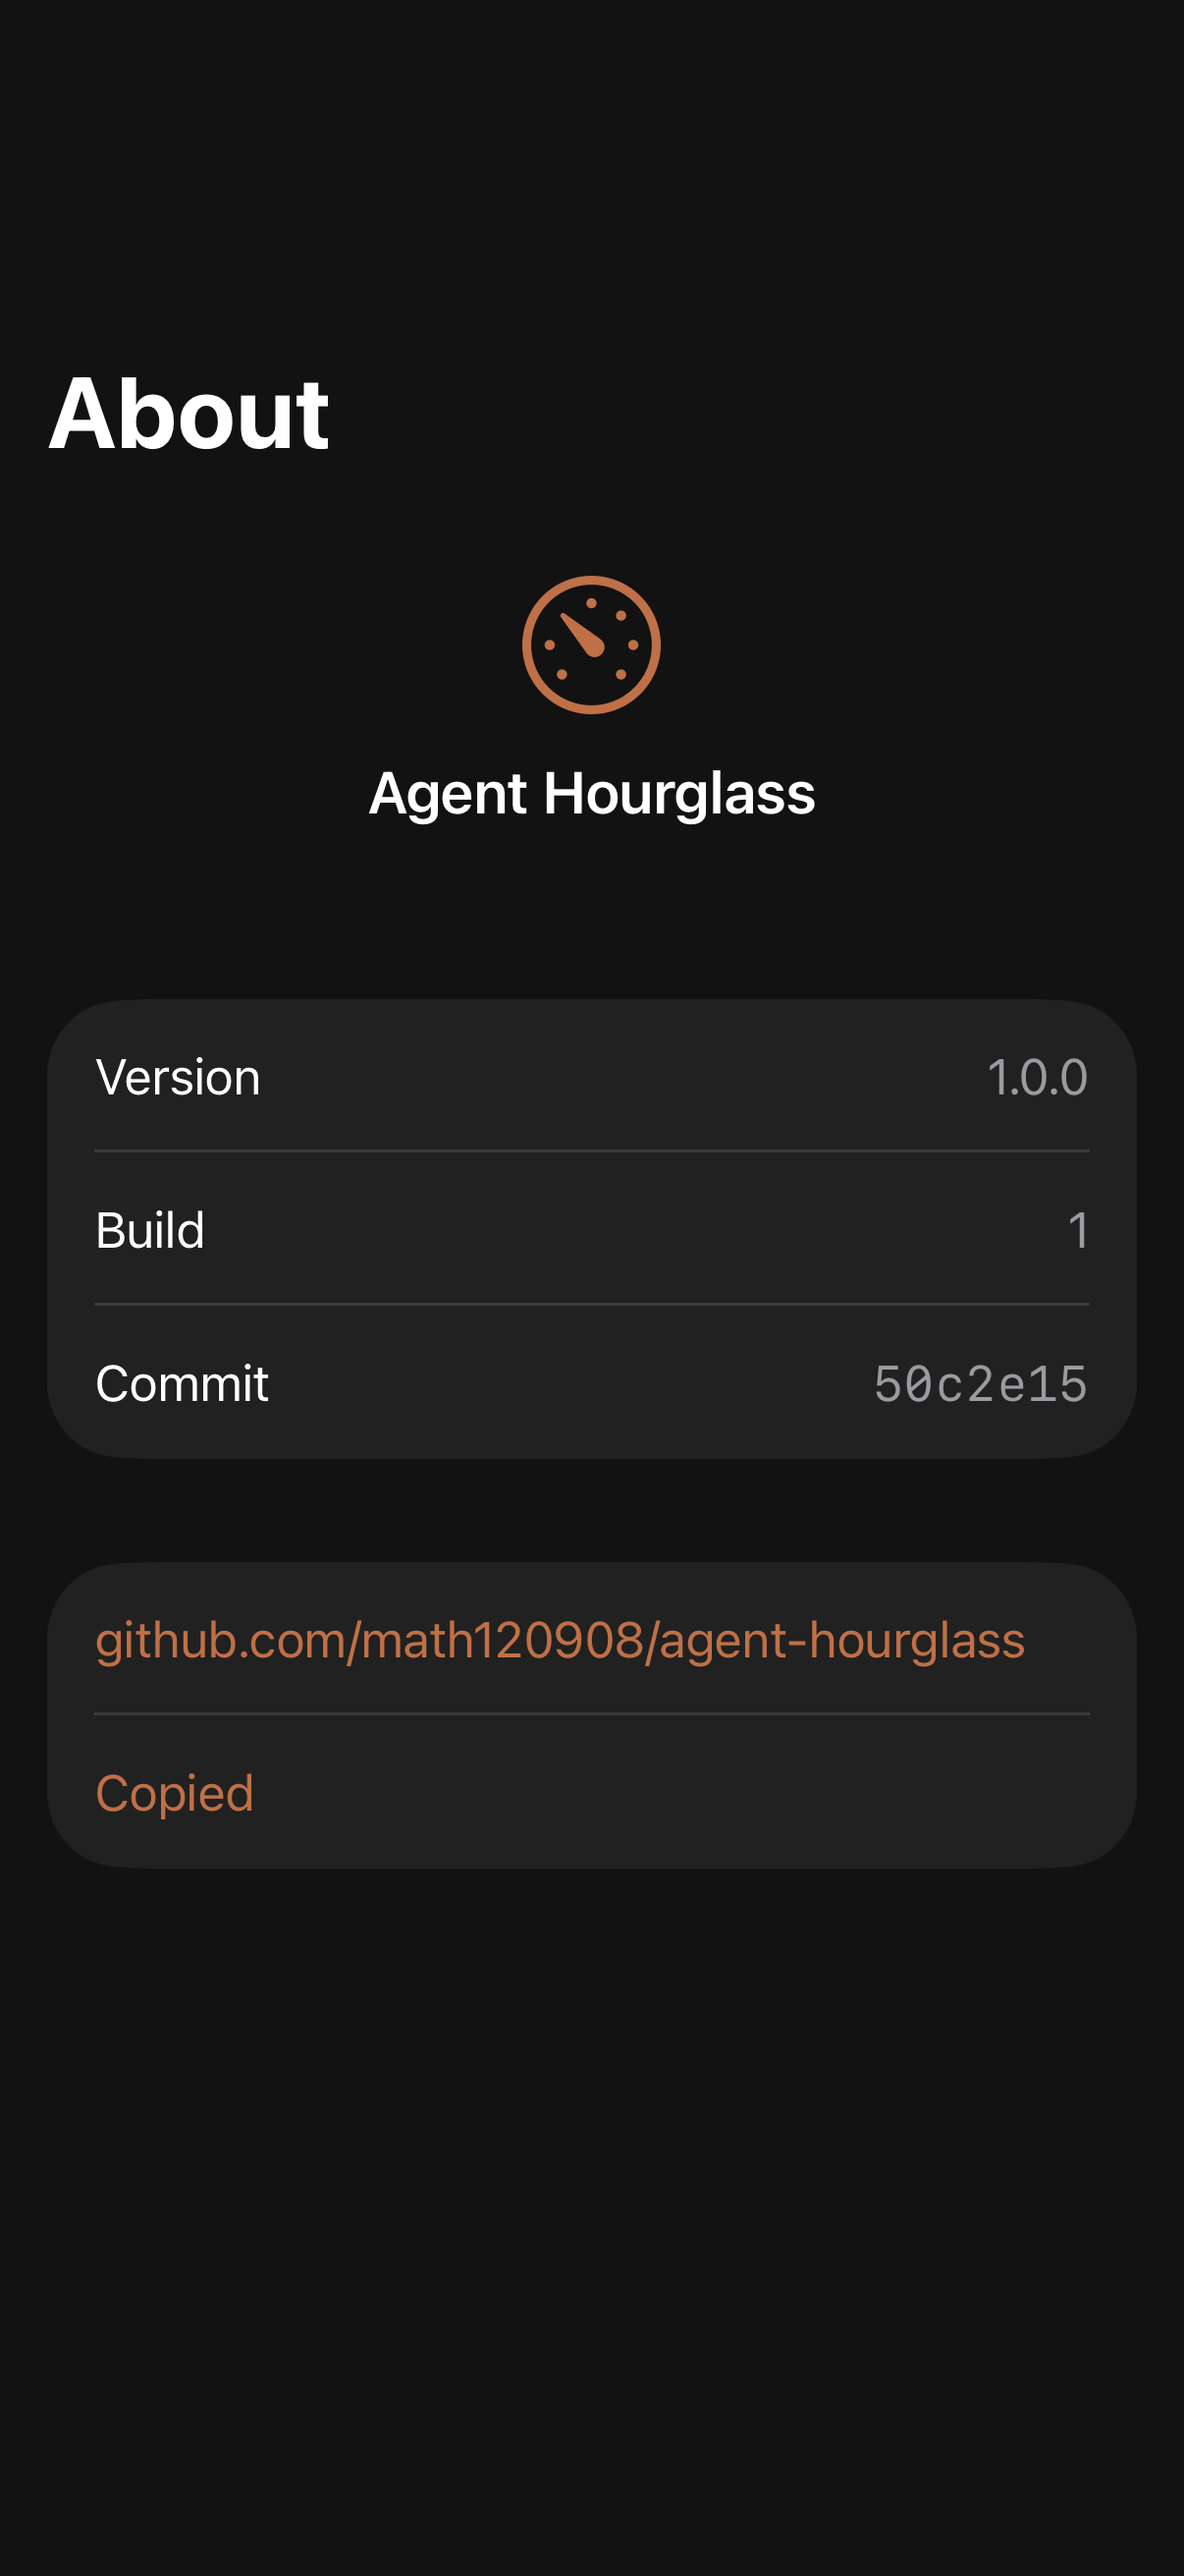
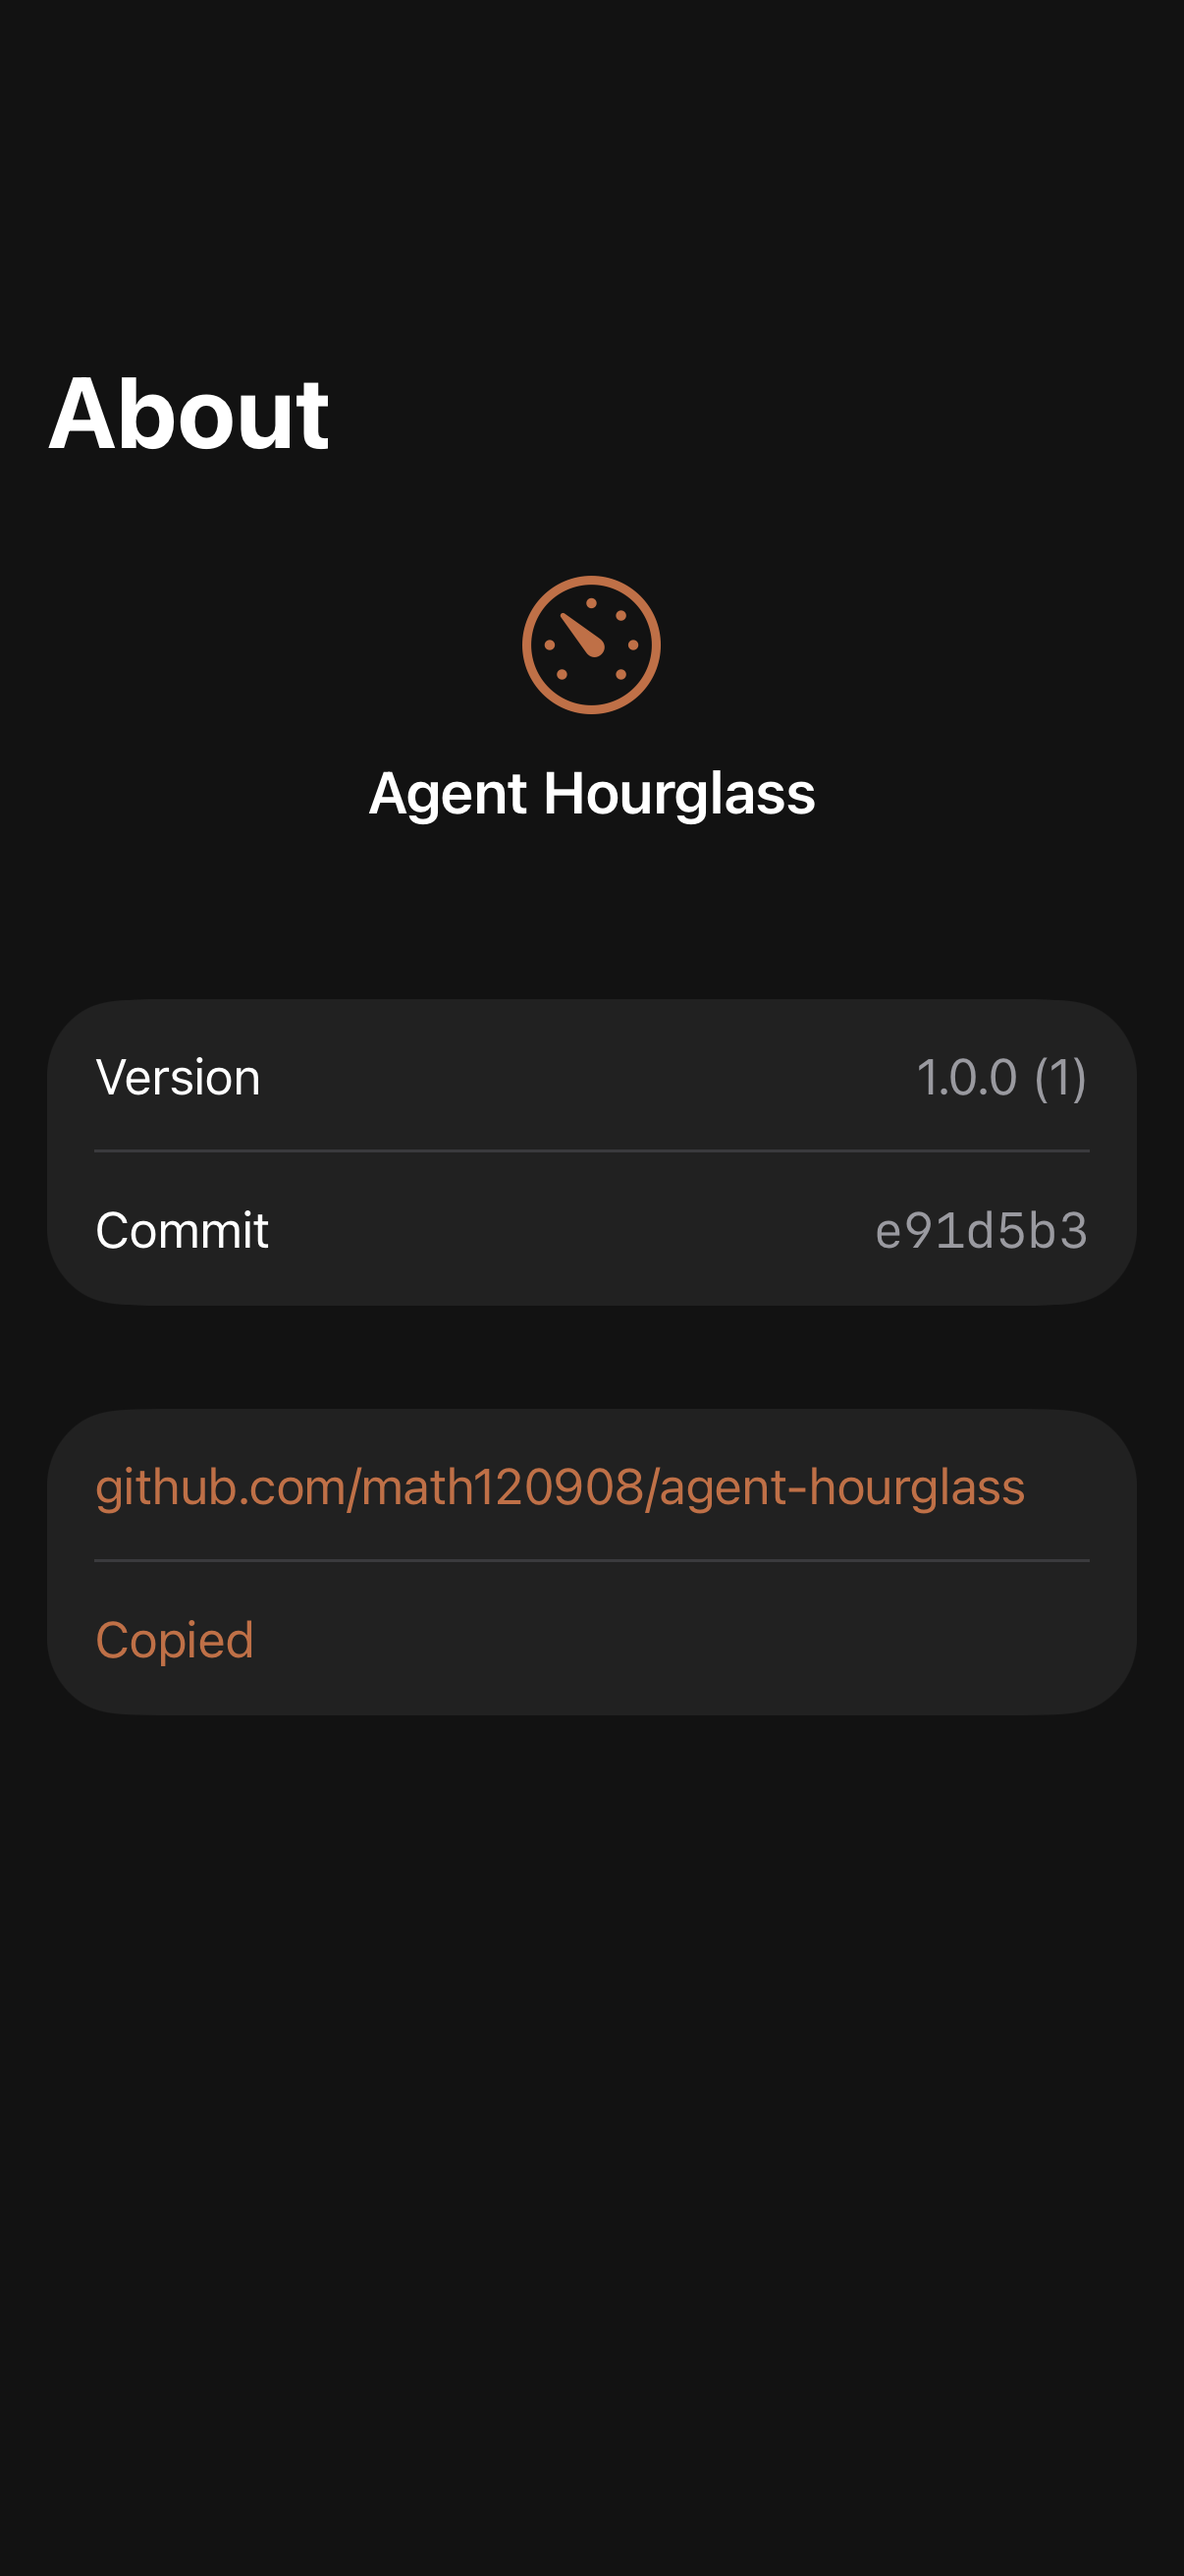
feat(ios): About shows the app version

diff --git a/iOS/App/BuildInfo.swift b/iOS/App/BuildInfo.swift
@@ -2,14 +2,21 @@ import Foundation
 
 /// Build metadata from the app Info.plist; unexpanded or missing values fall back.
 enum BuildInfo {
-    static var version: String { value("CFBundleShortVersionString") ?? "dev" }
-    static var build: String { value("CFBundleVersion") ?? "dev" }
-    static var commit: String { value("GitCommit") ?? "unknown" }
+    static var version: String { version(info: mainInfo) }
+    static var build: String { build(info: mainInfo) }
+    static var commit: String { commit(info: mainInfo) }
+    /// `CFBundleShortVersionString (CFBundleVersion)`, e.g. `1.0.0 (261024.12345)`.
+    static var displayVersion: String { displayVersion(info: mainInfo) }
 
-    private static func value(_ key: String) -> String? {
-        guard let s = Bundle.main.object(forInfoDictionaryKey: key) as? String,
-              !s.isEmpty, !s.contains("$(")
-        else { return nil }
+    static func version(info: [String: Any]) -> String { value("CFBundleShortVersionString", in: info) ?? "dev" }
+    static func build(info: [String: Any]) -> String { value("CFBundleVersion", in: info) ?? "dev" }
+    static func commit(info: [String: Any]) -> String { value("GitCommit", in: info) ?? "unknown" }
+    static func displayVersion(info: [String: Any]) -> String { "\(version(info: info)) (\(build(info: info)))" }
+
+    private static var mainInfo: [String: Any] { Bundle.main.infoDictionary ?? [:] }
+
+    private static func value(_ key: String, in info: [String: Any]) -> String? {
+        guard let s = info[key] as? String, !s.isEmpty, !s.contains("$(") else { return nil }
         return s
     }
 }

diff --git a/iOS/Tests/BuildInfoTests.swift b/iOS/Tests/BuildInfoTests.swift
@@ -1,0 +1,18 @@
+import Testing
+@testable import AgentHourglass
+
+@Test func displayVersionJoinsShortVersionAndBuild() {
+    let info: [String: Any] = ["CFBundleShortVersionString": "1.0.0", "CFBundleVersion": "261024.12345"]
+    #expect(BuildInfo.displayVersion(info: info) == "1.0.0 (261024.12345)")
+}
+
+@Test func displayVersionFallsBackForMissingOrUnexpandedValues() {
+    #expect(BuildInfo.displayVersion(info: [:]) == "dev (dev)")
+    let unexpanded: [String: Any] = ["CFBundleShortVersionString": "$(MARKETING_VERSION)", "CFBundleVersion": ""]
+    #expect(BuildInfo.displayVersion(info: unexpanded) == "dev (dev)")
+}
+
+@Test func commitReadsGitCommitKey() {
+    #expect(BuildInfo.commit(info: ["GitCommit": "e91d5b3"]) == "e91d5b3")
+    #expect(BuildInfo.commit(info: ["GitCommit": "$(GIT_COMMIT)"]) == "unknown")
+}

diff --git a/iOS/App/Settings/AboutView.swift b/iOS/App/Settings/AboutView.swift
@@ -32,8 +32,7 @@ struct AboutView: View {
                 .listRowBackground(Color.clear)
             }
             Section {
-                LabeledContent("Version", value: BuildInfo.version).listRowBackground(rowBackground)
-                LabeledContent("Build", value: BuildInfo.build).listRowBackground(rowBackground)
+                LabeledContent("Version", value: BuildInfo.displayVersion).listRowBackground(rowBackground)
                 LabeledContent("Commit") {
                     Text(BuildInfo.commit)
                         .font(.body.monospaced())
